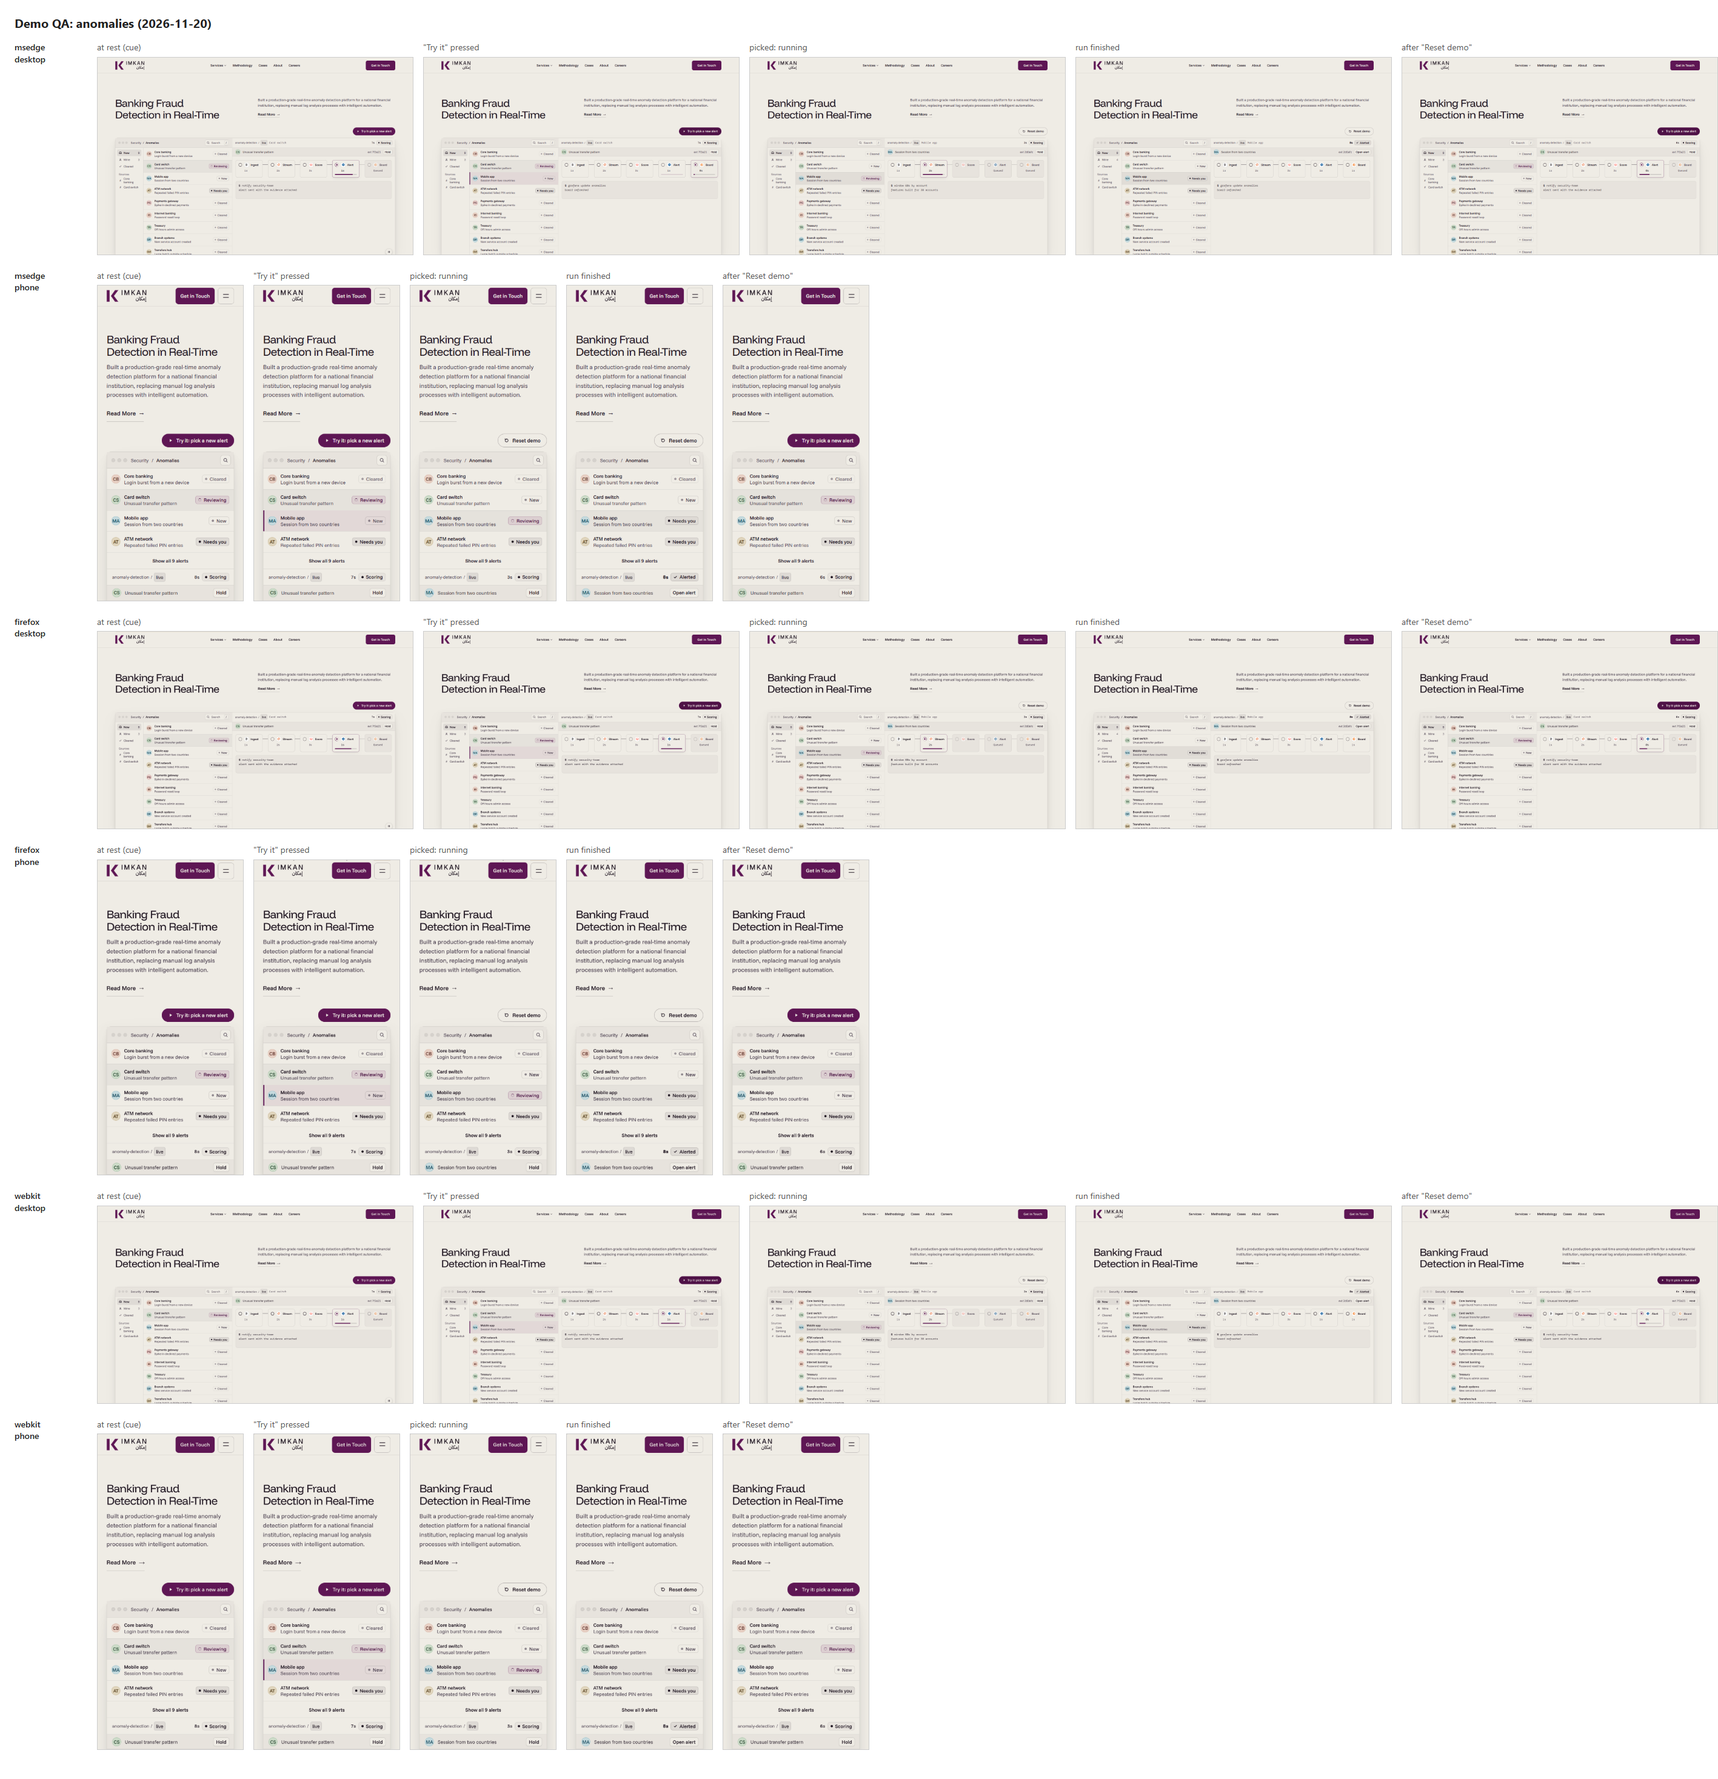
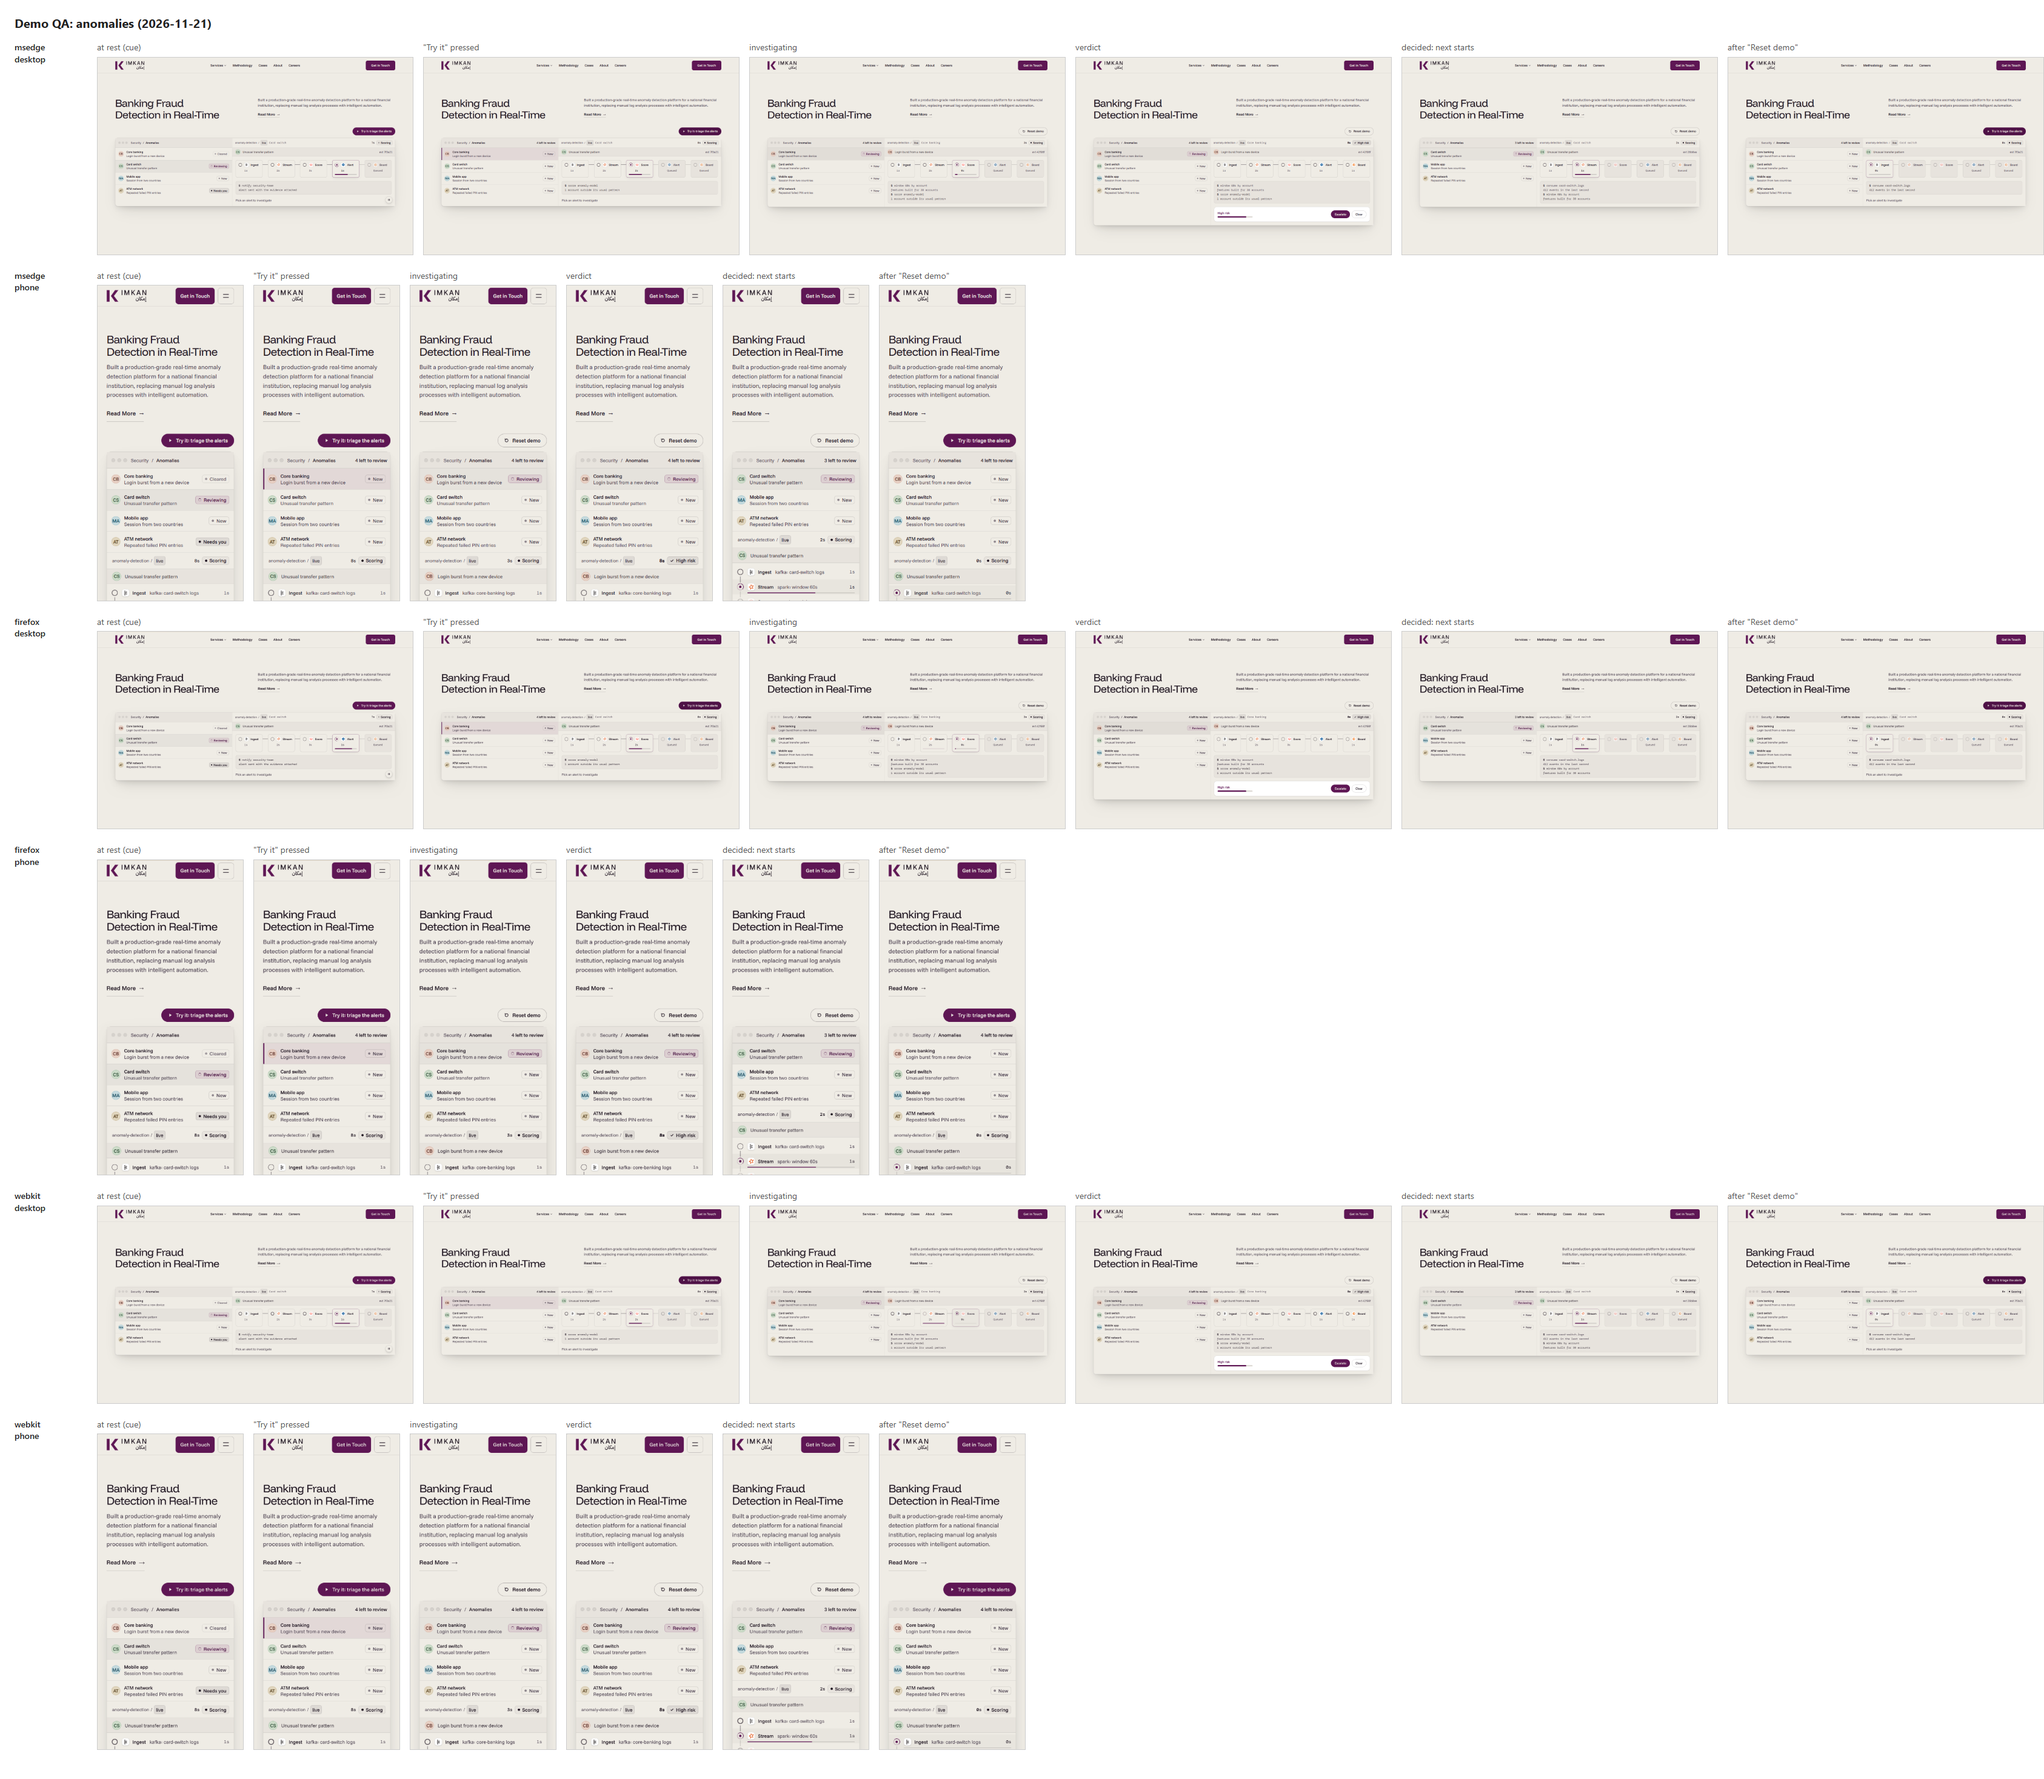
fix(demos): chat card fits the first screen; steadier Firefox demo tests
The chat card ended at 935px on a 1440x900 screen (the prompt bar below the fold);
the conversation area and the padding around the suggestions and the bar are
rebalanced, so the card ends at 897px with the first answer whole. The checks and
voice tests read the demo's state once instead of polling while it animates (the
Firefox and Playwright crash noted in visual-qa.md). New contact sheets for the
chat, triage and roadmap demos.

diff --git a/site/public/styles/play.css b/site/public/styles/play.css
@@ -123,7 +123,7 @@ html .has-play-cue .ui-search__field:focus-within { box-shadow: inset 0 -2px 0 v
 html .hero__window[data-play="chat"] > .ly-piece { max-width: 820px; }
 html .hero__window[data-play="chat"] .ui-chat { width: 100%; }
 html .hero__window[data-play="chat"] .ui-chat__body {
-  min-height: 0; block-size: 232px; overflow-y: auto;
+  min-height: 0; block-size: 204px; overflow-y: auto;
   padding: var(--s-4) var(--s-5) var(--s-4);
 }
 html .hero__window[data-play="chat"] .ui-msg { font-size: 14px; line-height: 21px; }
@@ -147,7 +147,7 @@ html .play-dots i:nth-child(3) { animation-delay: 300ms; }
 html .ui-chat__w.is-off-full { opacity: 0; }
 
 /* the suggestions and the prompt bar, at the bottom of the card */
-html .play-chat__suggest { display: flex; flex-wrap: wrap; gap: var(--s-2); padding: var(--s-3) var(--s-5) 0; border-block-start: 1px solid var(--u-line); }
+html .play-chat__suggest { display: flex; flex-wrap: wrap; gap: var(--s-2); padding: var(--s-2) var(--s-5) 0; border-block-start: 1px solid var(--u-line); }
 html .play-chat__q {
   min-block-size: 32px; padding: 6px var(--s-3); border: 1px solid color-mix(in oklab, var(--p-ink) 18%, transparent); border-radius: 999px;
   background: var(--p-bg); color: var(--p-ink); font: 500 13px/18px var(--font-text); text-align: start; cursor: pointer;
@@ -158,7 +158,7 @@ html .play-chat__q.is-pointed { background: color-mix(in oklab, var(--p-action) 
 html .play-chat__q:focus-visible { outline: 2px solid var(--p-action); outline-offset: 2px; }
 /* the prompt bar: the text box fills it and carries its own border and focus ring (the focused element shows the
    ring, not its wrapper); the send button sits inside it, on the right */
-html .play-chat__bar { position: relative; margin: var(--s-3) var(--s-5) var(--s-4); }
+html .play-chat__bar { position: relative; margin: 10px var(--s-5) var(--s-3); }
 html .play-chat__input {
   display: block; inline-size: 100%; min-inline-size: 0; block-size: 44px; padding: 0 52px 0 var(--s-4); border: 0; border-radius: 999px;
   background: #fff; color: var(--p-ink); font: 400 14px/20px var(--font-text); outline: none;

diff --git a/site/tests/play-all.spec.ts b/site/tests/play-all.spec.ts
@@ -138,7 +138,9 @@ test.describe('framed demos', () => {
     const frame = '#methodology [data-play="terminal"]';
     const f = await open(page, '/', frame);
     await f.locator('.ui-term__cmd[role="button"]').click();
-    await expect(f.locator('[data-ui="terminal-run"]')).not.toHaveClass(/is-ui-held/, { timeout: 2000 });
+    // one read, not a polling expect(), while the run animates (Firefox: see the axe helper)
+    await page.waitForTimeout(300);
+    expect(await f.locator('[data-ui="terminal-run"]').getAttribute('class')).not.toMatch(/is-ui-held/);
     await axe(page, frame);
   });
 
@@ -146,7 +148,9 @@ test.describe('framed demos', () => {
     const frame = '#why-us [data-play="voice"]';
     const f = await open(page, '/', frame);
     await f.locator('[data-voice-orb]').click();
-    await expect(f.locator('[data-ui="voice"]')).toHaveClass(/is-talking/, { timeout: 2000 });
+    // one read, not a polling expect(), while the line plays (Firefox: see the axe helper)
+    await page.waitForTimeout(600);
+    expect(await f.locator('[data-ui="voice"]').getAttribute('class')).toMatch(/is-talking/);
     await axe(page, frame);
   });
 
